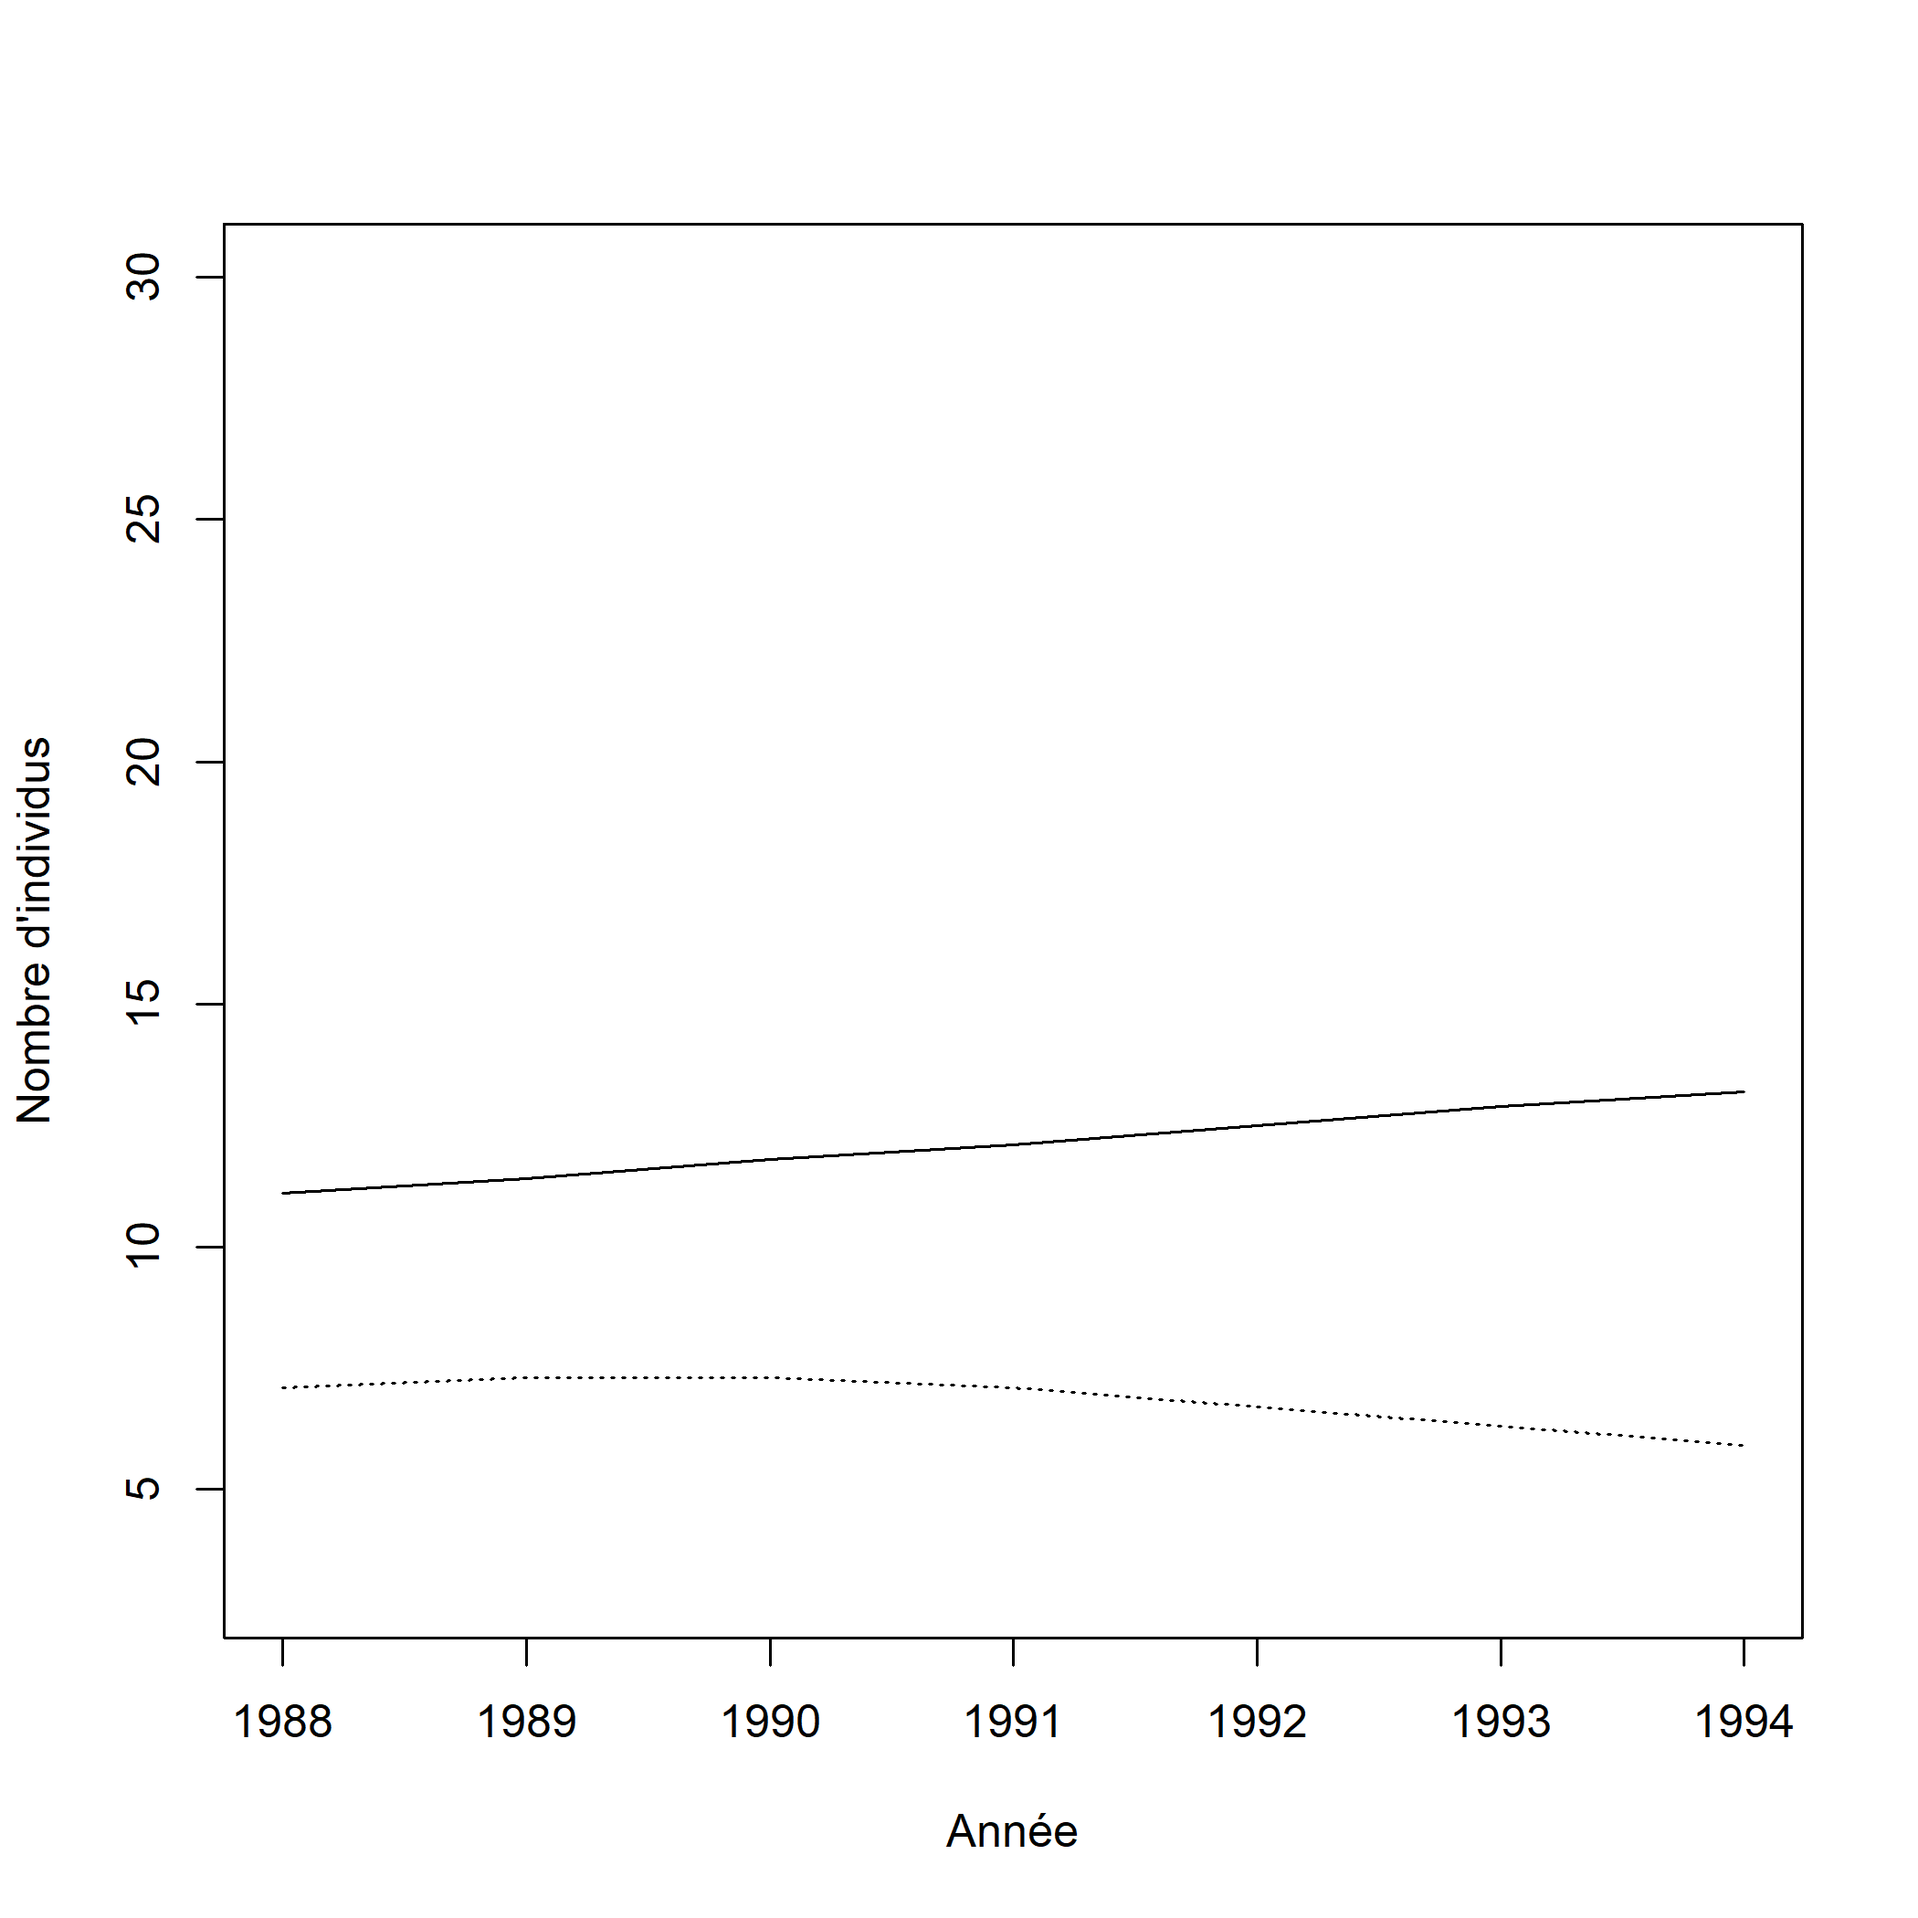
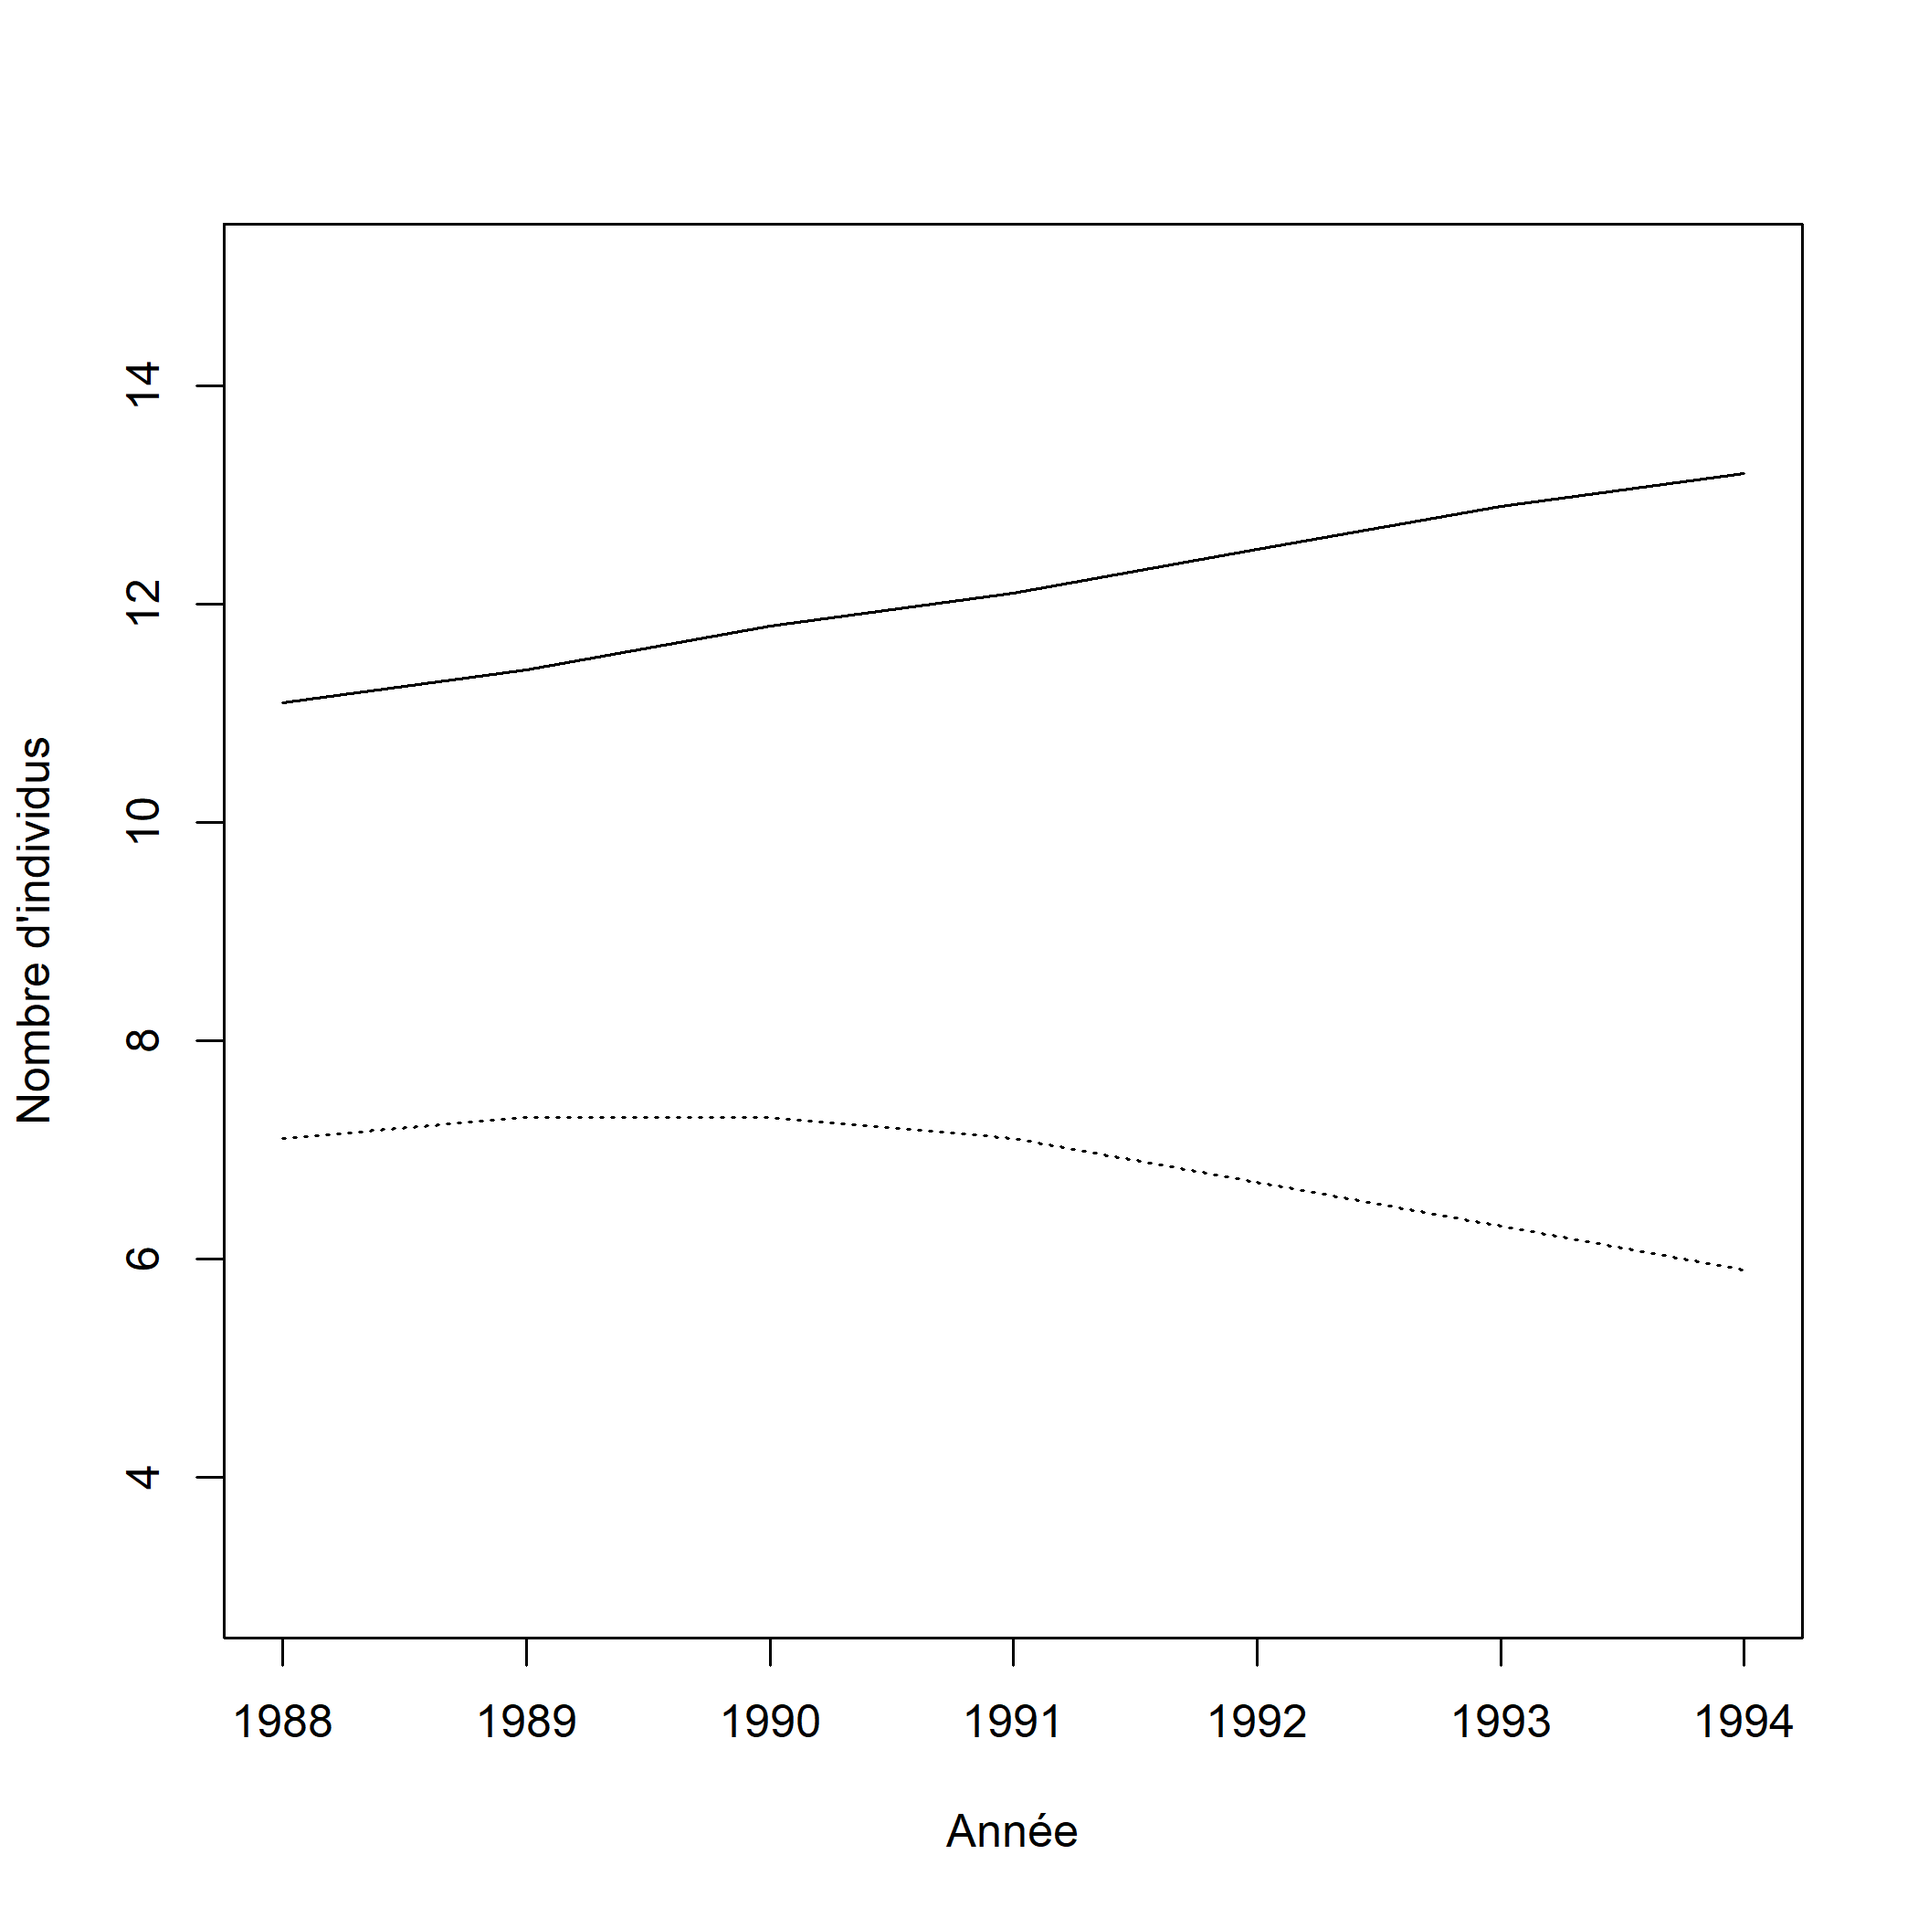
modif

diff --git a/Atelier_3/index.html b/Atelier_3/index.html
@@ -50,10 +50,10 @@ class: inverse, middle, center
 
 # Mise en situation
 
-Vous étudiez la démographie de la population humaine sur la planète Terre. Vos données sont très simples, vous avez deux pays dont vous connaissez la talle de la population au 1er janvier 1988, 1989, 1990, 1991, 1992, 1993 et 1994. Vous devez vérifier si la population est en croissance, stable ou en déclin sur cette séquence de 7 ans. Le taux de croissance est donné par l'équation suivante:
+Vous étudiez la démographie de la population humaine sur la planète Terre. Vos données sont très simples, vous avez deux pays dont vous connaissez la taille de la population au 1er janvier 1988, 1989, 1990, 1991, 1992, 1993 et 1994. Vous devez vérifier si l'évolution de la population est stable, en croissance ou en déclin sur cette séquence de 7 ans. Le taux de croissance est donné par l'équation suivante:
 
 
-`$$\lambda_{t+1} = \dfrac{N_{t+1} - N_t}{N_t}$$`
+`$$\lambda_t = \dfrac{N_{t+1} - N_t}{N_t}$$`
 
 ---
 
@@ -88,11 +88,23 @@ Les données ressemblent à ce qui suit:
 
 
 ```r
-plot(an,donnees[,1],type = "l", xlab = "Année",ylab = "Nombre d'individus", ylim=c(3,30),cex=2)
-lines(an,donnees[,2], lty = 3)
+plot(an, donnees[,1], type = "l", xlab = "Année", ylab = "Nombre d'individus", ylim=c(3,15), cex=2)
+lines(an, donnees[,2], lty = 3)
 ```
 
 &lt;img src="index_files/figure-html/unnamed-chunk-2-1.png" width="42%" style="display: block; margin: auto;" /&gt;
+
+---
+# Mise en situation
+
+Remarquons qu'il nous est seulement possible de trouver 6 valeurs de lambda par pays. Comme on doit utiliser le temps `\(t\)` et le temps `\(t+1\)` pour calculer lambda au temps `\(t\)`, une paire de données est associée à chaque lambda:
+
+*(numéro de la première donnée; numéro de la deuxième donnée):*
+
+(1,2) - (2,3) - (3,4) - (4,5) - (5,6) - (6,7) qui nous permettent d'obtenir ( `\(\lambda_1\)`; `\(\lambda_2\)`; `\(\lambda_3\)`; `\(\lambda_4\)`; `\(\lambda_5\)`; `\(\lambda_6\)`)
+
+Il n'est effectivement pas possible d'utiliser (0,1) ou (7,8) pour trouver une valeur de lambda, car les éléments 0 et 8 n'existent pas (sont inconnus).
+
 
 ---
 # Mise en situation
@@ -378,11 +390,11 @@ for(etape in 1:5) {
 ```
 
 ```
-## [1] 0.9857407
-## [1] 0.1867978
-## [1] 0.356966
-## [1] 0.4299258
-## [1] 0.3666816
+## [1] 0.3528379
+## [1] 0.04919008
+## [1] 0.4795948
+## [1] 0.5751644
+## [1] 0.05973934
 ```
 
 ---
@@ -546,14 +558,7 @@ while(combinaison != "pile-pile") {
 
 ```
 ## [1] "pile-face"
-## [1] "face-face"
-## [1] "pile-face"
-## [1] "face-face"
-## [1] "pile-face"
-## [1] "face-face"
-## [1] "face-face"
 ## [1] "face-pile"
-## [1] "face-face"
 ## [1] "pile-pile"
 ```
 
@@ -583,7 +588,7 @@ mean(res)
 ```
 
 ```
-## [1] 5.9885
+## [1] 6.0289
 ```
 
 ---
@@ -814,16 +819,16 @@ cbind(X,res)
 
 ```
 ##       X                    res         
-##  [1,] "0.0481583310756832" "plus petit"
-##  [2,] "0.734754332574084"  "plus grand"
-##  [3,] "0.265626113163307"  "plus petit"
-##  [4,] "0.813713737530634"  "plus grand"
-##  [5,] "0.998320255661383"  "plus grand"
-##  [6,] "0.617680101655424"  "plus grand"
-##  [7,] "0.132359272567555"  "plus petit"
-##  [8,] "0.768528125714511"  "plus grand"
-##  [9,] "0.0610656819771975" "plus petit"
-## [10,] "0.643128432333469"  "plus grand"
+##  [1,] "0.554638733621687"  "plus grand"
+##  [2,] "0.200989998178557"  "plus petit"
+##  [3,] "0.371842302381992"  "plus grand"
+##  [4,] "0.0251980028115213" "plus petit"
+##  [5,] "0.797302332008258"  "plus grand"
+##  [6,] "0.674822506727651"  "plus grand"
+##  [7,] "0.680022223386914"  "plus grand"
+##  [8,] "0.705170786706731"  "plus grand"
+##  [9,] "0.513064682018012"  "plus grand"
+## [10,] "0.878830887842923"  "plus grand"
 ```
 ]
 
@@ -868,16 +873,16 @@ cbind(X,res2)
 
 ```
 ##       X                    res2 
-##  [1,] "0.0481583310756832" "non"
-##  [2,] "0.734754332574084"  "non"
-##  [3,] "0.265626113163307"  "oui"
-##  [4,] "0.813713737530634"  "non"
-##  [5,] "0.998320255661383"  "non"
-##  [6,] "0.617680101655424"  "non"
-##  [7,] "0.132359272567555"  "non"
-##  [8,] "0.768528125714511"  "non"
-##  [9,] "0.0610656819771975" "non"
-## [10,] "0.643128432333469"  "non"
+##  [1,] "0.554638733621687"  "oui"
+##  [2,] "0.200989998178557"  "oui"
+##  [3,] "0.371842302381992"  "oui"
+##  [4,] "0.0251980028115213" "non"
+##  [5,] "0.797302332008258"  "non"
+##  [6,] "0.674822506727651"  "non"
+##  [7,] "0.680022223386914"  "non"
+##  [8,] "0.705170786706731"  "non"
+##  [9,] "0.513064682018012"  "oui"
+## [10,] "0.878830887842923"  "non"
 ```
 ]
 
@@ -904,16 +909,16 @@ cbind(X,res2)
 
 ```
 ##       X                    res2 
-##  [1,] "0.0481583310756832" "non"
-##  [2,] "0.734754332574084"  "non"
-##  [3,] "0.265626113163307"  "oui"
-##  [4,] "0.813713737530634"  "non"
-##  [5,] "0.998320255661383"  "non"
-##  [6,] "0.617680101655424"  "non"
-##  [7,] "0.132359272567555"  "non"
-##  [8,] "0.768528125714511"  "non"
-##  [9,] "0.0610656819771975" "non"
-## [10,] "0.643128432333469"  "non"
+##  [1,] "0.554638733621687"  "oui"
+##  [2,] "0.200989998178557"  "oui"
+##  [3,] "0.371842302381992"  "oui"
+##  [4,] "0.0251980028115213" "non"
+##  [5,] "0.797302332008258"  "non"
+##  [6,] "0.674822506727651"  "non"
+##  [7,] "0.680022223386914"  "non"
+##  [8,] "0.705170786706731"  "non"
+##  [9,] "0.513064682018012"  "oui"
+## [10,] "0.878830887842923"  "non"
 ```
 ]
 
@@ -1006,7 +1011,7 @@ tirage(3, cartes)
 ```
 
 ```
-## [1] "4 - carreau" "roi - pique" "4 - pique"
+## [1] "roi - coeur"  "7 - pique"    "as - carreau"
 ```
 
 ---
@@ -1084,7 +1089,7 @@ rbinom(n = 10, size = 1, prob = 0.5)
 ```
 
 ```
-##  [1] 1 0 0 0 1 1 0 0 0 1
+##  [1] 1 0 0 1 0 0 1 0 1 0
 ```
 ]
 
@@ -1109,10 +1114,10 @@ rmultinom(n = 3, size = 1, prob = rep(1/6, 6))
 ##      [,1] [,2] [,3]
 ## [1,]    0    0    0
 ## [2,]    0    0    0
-## [3,]    0    0    0
-## [4,]    1    0    1
-## [5,]    0    0    0
-## [6,]    0    1    0
+## [3,]    1    0    1
+## [4,]    0    0    0
+## [5,]    0    1    0
+## [6,]    0    0    0
 ```
 ]
 
@@ -1510,7 +1515,7 @@ system.time(tri(x))
 
 ```
 ##    user  system elapsed 
-##    0.25    0.00    0.25
+##    0.28    0.00    0.28
 ```
 
 ---
@@ -1570,7 +1575,7 @@ system.time(f1(x))
 
 ```
 ##    user  system elapsed 
-##    0.06    0.00    0.06
+##    0.07    0.00    0.08
 ```
 
 ```r
@@ -1579,7 +1584,7 @@ system.time(f2(x))
 
 ```
 ##    user  system elapsed 
-##       0       0       0
+##    0.01    0.00    0.01
 ```
 ]
 
@@ -1621,7 +1626,7 @@ system.time(f1(X))
 ##    user  system elapsed 
 ##       0       0       0 
 ##    user  system elapsed 
-##    0.66    0.00    0.66
+##    0.74    0.00    0.73
 ```
 ]
 
